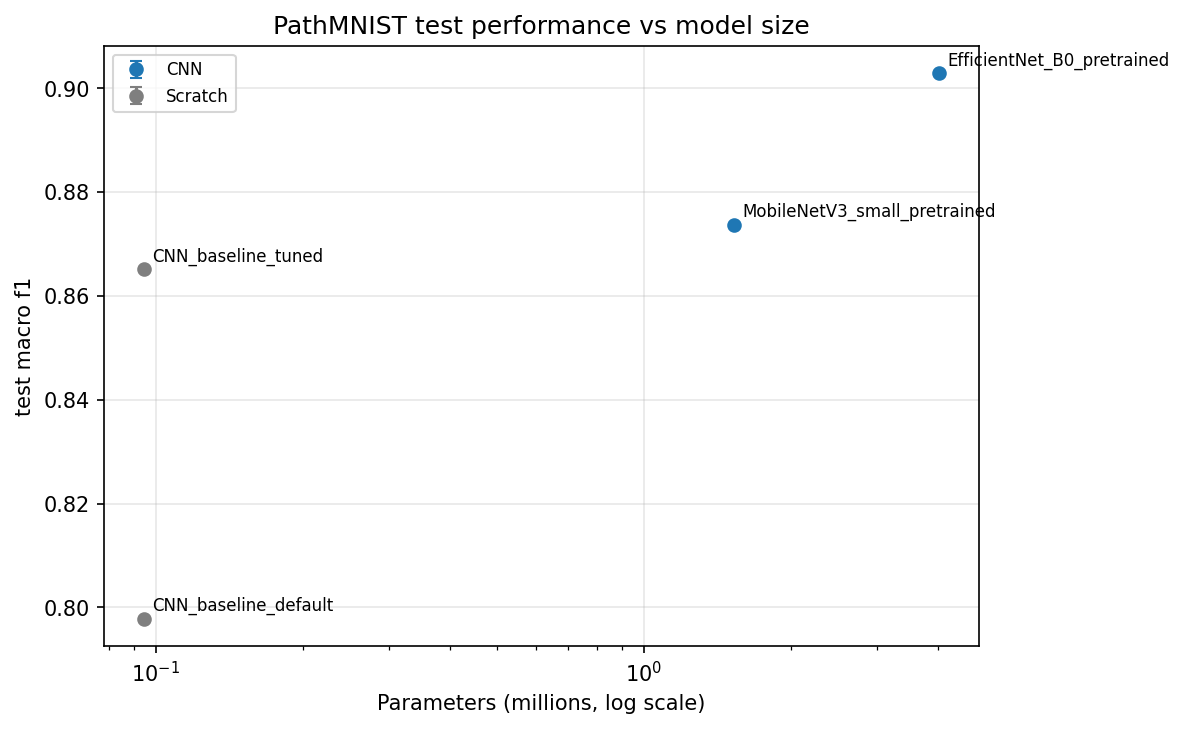
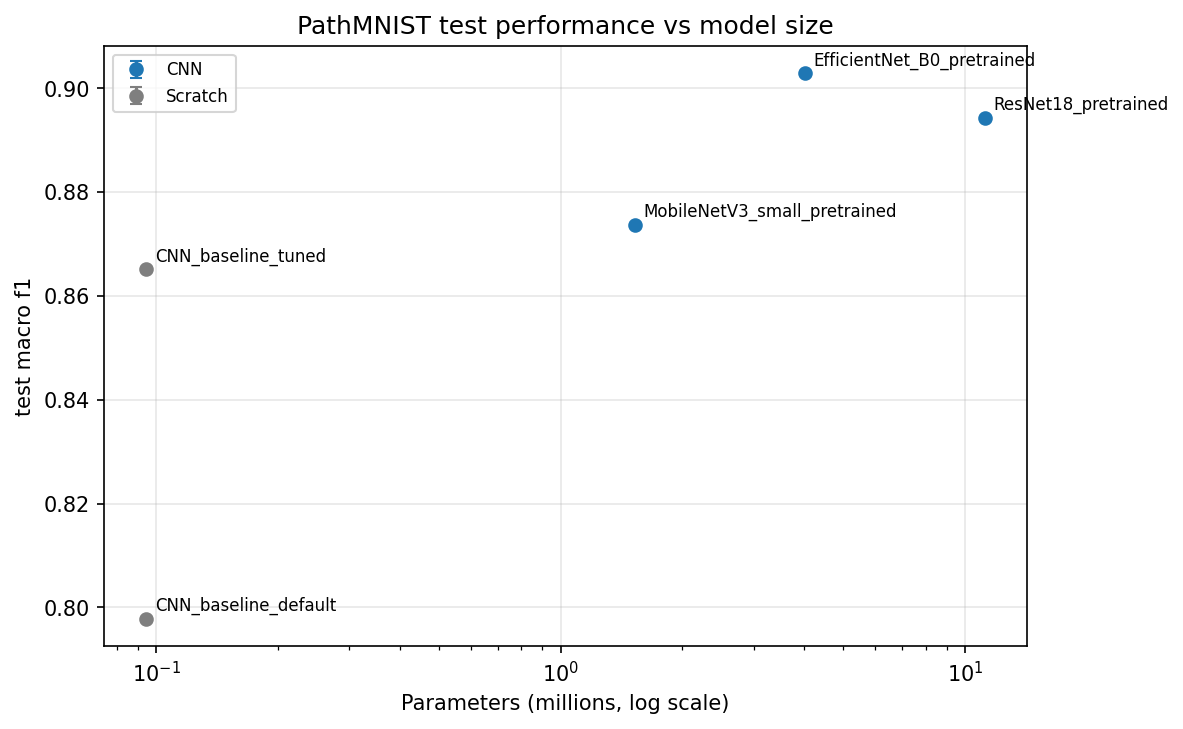
ADD: Add reports for resnet18 after training

diff --git a/reports/PRESENTATION_SUMMARY.md b/reports/PRESENTATION_SUMMARY.md
@@ -1,6 +1,6 @@
 # CRC-TissueNet - results summary (laptop CPU run)
 
-Generated 2026-11-15 08:07 | profile `capstone`. Hyperparameters were selected on the validation split only; the test cohort (7,180 patches from 50 unseen patients) was used once per final model. Studies used parts of the training data (see each study's settings); validation and test sets were always complete.
+Generated 2026-11-15 17:28 | profile `capstone`. Hyperparameters were selected on the validation split only; the test cohort (7,180 patches from 50 unseen patients) was used once per final model. Studies used parts of the training data (see each study's settings); validation and test sets were always complete.
 
 ## 1. Data
 
@@ -58,6 +58,20 @@ Full observations: `runs\capstone_transfer_mobilenetv3_small/OBSERVATIONS.md`
 
 Full observations: `runs\capstone_transfer_efficientnet_b0/OBSERVATIONS.md`
 
+## 3. Transfer learning - l1_resnet18_pt
+
+| stage | selected setting | val macro F1 |
+|---|---|---|
+| finetune_strategy | fine_tuning | 0.7896 |
+| learning_rate | x3 | 0.8811 |
+
+![capstone_transfer_resnet18_progress.png](presentation/capstone_transfer_resnet18_progress.png)
+
+![capstone_transfer_resnet18_stage_finetune_strategy.png](presentation/capstone_transfer_resnet18_stage_finetune_strategy.png)
+![capstone_transfer_resnet18_stage_learning_rate.png](presentation/capstone_transfer_resnet18_stage_learning_rate.png)
+
+Full observations: `runs\capstone_transfer_resnet18/OBSERVATIONS.md`
+
 ## 4. Final models on the unseen test cohort
 
 Seeds per model: mean ± SD over seeds; 95% CI = patch-level bootstrap (1000 resamples) for the first seed. Model selection used validation data only.
@@ -68,6 +82,7 @@ Seeds per model: mean ± SD over seeds; 95% CI = patch-level bootstrap (1000 res
 | CNN_baseline_tuned | Scratch | 0.09 | 28 | 0.9001 | 0.894-0.907 | 0.8651 | 0.9867 | 0.8703 | 0.031 | 0.950 | 153.8 | 4.440 |
 | MobileNetV3_small_pretrained | CNN | 1.53 | 64 | 0.9043 | 0.898-0.911 | 0.8738 | 0.9851 | 0.8736 | 0.063 | 0.951 | 12.4 | 0.624 |
 | EfficientNet_B0_pretrained | CNN | 4.02 | 64 | 0.9292 | 0.923-0.936 | 0.9029 | 0.9914 | 0.9018 | 0.077 | 0.974 | 49.3 | 2.649 |
+| ResNet18_pretrained | CNN | 11.18 | 64 | 0.9242 | 0.918-0.931 | 0.8944 | 0.9901 | 0.8951 | 0.095 | 0.964 | 46.6 | 4.065 |
 
 Published MedMNIST v2 PathMNIST results (Yang et al. 2023): ResNet-18 (28): acc 0.907, AUC 0.983; ResNet-18 (224): acc 0.909, AUC 0.989; ResNet-50 (28): acc 0.911, AUC 0.99; ResNet-50 (224): acc 0.892, AUC 0.989
 
@@ -85,6 +100,7 @@ Published MedMNIST v2 PathMNIST results (Yang et al. 2023): ResNet-18 (28): acc 
 | CNN_baseline_tuned           | 0.942 |  0.96  | 0.708 | 0.964 | 0.901 | 0.839 |  0.923 | 0.616 | 0.934 |
 | MobileNetV3_small_pretrained | 0.965 |  0.948 | 0.821 | 0.963 | 0.938 | 0.814 |  0.881 | 0.624 | 0.91  |
 | EfficientNet_B0_pretrained   | 0.968 |  0.985 | 0.808 | 0.971 | 0.958 | 0.847 |  0.924 | 0.721 | 0.943 |
+| ResNet18_pretrained          | 0.978 |  0.983 | 0.831 | 0.967 | 0.957 | 0.845 |  0.913 | 0.645 | 0.929 |
 
 ## Paired comparisons vs CNN_baseline_tuned (same seed, test set)
 
@@ -92,9 +108,10 @@ Paired bootstrap of the macro-F1 difference and McNemar's test; p-values Holm-ad
 
 | id                           | vs                 |   seed |   delta_macro_f1 | delta_ci95         |   p_bootstrap |   p_mcnemar |   only_model_correct |   only_reference_correct |   p_bootstrap_holm |   p_mcnemar_holm | significant_0.05   |
 |:-----------------------------|:-------------------|-------:|-----------------:|:-------------------|--------------:|------------:|---------------------:|-------------------------:|-------------------:|-----------------:|:-------------------|
-| CNN_baseline_default         | CNN_baseline_tuned |     42 |          -0.0673 | -0.0761 to -0.0578 |         0.001 |      0      |                  194 |                      487 |              0.003 |           0      | True               |
+| CNN_baseline_default         | CNN_baseline_tuned |     42 |          -0.0673 | -0.0761 to -0.0578 |         0.001 |      0      |                  194 |                      487 |              0.004 |           0      | True               |
 | MobileNetV3_small_pretrained | CNN_baseline_tuned |     42 |           0.0086 | -0.0003 to +0.0180 |         0.068 |      0.2434 |                  324 |                      294 |              0.068 |           0.2434 | False              |
-| EfficientNet_B0_pretrained   | CNN_baseline_tuned |     42 |           0.0377 | +0.0291 to +0.0471 |         0.001 |      0      |                  410 |                      201 |              0.003 |           0      | True               |
+| EfficientNet_B0_pretrained   | CNN_baseline_tuned |     42 |           0.0377 | +0.0291 to +0.0471 |         0.001 |      0      |                  410 |                      201 |              0.004 |           0      | True               |
+| ResNet18_pretrained          | CNN_baseline_tuned |     42 |           0.0292 | +0.0204 to +0.0384 |         0.001 |      0      |                  378 |                      205 |              0.004 |           0      | True               |
 
 
 

diff --git a/reports/capstone_benchmark/REPORT.md b/reports/capstone_benchmark/REPORT.md
@@ -8,6 +8,7 @@ Seeds per model: mean ± SD over seeds; 95% CI = patch-level bootstrap (1000 res
 | CNN_baseline_tuned | Scratch | 0.09 | 28 | 0.9001 | 0.894-0.907 | 0.8651 | 0.9867 | 0.8703 | 0.031 | 0.950 | 153.8 | 4.440 |
 | MobileNetV3_small_pretrained | CNN | 1.53 | 64 | 0.9043 | 0.898-0.911 | 0.8738 | 0.9851 | 0.8736 | 0.063 | 0.951 | 12.4 | 0.624 |
 | EfficientNet_B0_pretrained | CNN | 4.02 | 64 | 0.9292 | 0.923-0.936 | 0.9029 | 0.9914 | 0.9018 | 0.077 | 0.974 | 49.3 | 2.649 |
+| ResNet18_pretrained | CNN | 11.18 | 64 | 0.9242 | 0.918-0.931 | 0.8944 | 0.9901 | 0.8951 | 0.095 | 0.964 | 46.6 | 4.065 |
 
 Published MedMNIST v2 PathMNIST results (Yang et al. 2023): ResNet-18 (28): acc 0.907, AUC 0.983; ResNet-18 (224): acc 0.909, AUC 0.989; ResNet-50 (28): acc 0.911, AUC 0.99; ResNet-50 (224): acc 0.892, AUC 0.989
 
@@ -25,6 +26,7 @@ Published MedMNIST v2 PathMNIST results (Yang et al. 2023): ResNet-18 (28): acc 
 | CNN_baseline_tuned           | 0.942 |  0.96  | 0.708 | 0.964 | 0.901 | 0.839 |  0.923 | 0.616 | 0.934 |
 | MobileNetV3_small_pretrained | 0.965 |  0.948 | 0.821 | 0.963 | 0.938 | 0.814 |  0.881 | 0.624 | 0.91  |
 | EfficientNet_B0_pretrained   | 0.968 |  0.985 | 0.808 | 0.971 | 0.958 | 0.847 |  0.924 | 0.721 | 0.943 |
+| ResNet18_pretrained          | 0.978 |  0.983 | 0.831 | 0.967 | 0.957 | 0.845 |  0.913 | 0.645 | 0.929 |
 
 ## Paired comparisons vs CNN_baseline_tuned (same seed, test set)
 
@@ -32,6 +34,7 @@ Paired bootstrap of the macro-F1 difference and McNemar's test; p-values Holm-ad
 
 | id                           | vs                 |   seed |   delta_macro_f1 | delta_ci95         |   p_bootstrap |   p_mcnemar |   only_model_correct |   only_reference_correct |   p_bootstrap_holm |   p_mcnemar_holm | significant_0.05   |
 |:-----------------------------|:-------------------|-------:|-----------------:|:-------------------|--------------:|------------:|---------------------:|-------------------------:|-------------------:|-----------------:|:-------------------|
-| CNN_baseline_default         | CNN_baseline_tuned |     42 |          -0.0673 | -0.0761 to -0.0578 |         0.001 |      0      |                  194 |                      487 |              0.003 |           0      | True               |
+| CNN_baseline_default         | CNN_baseline_tuned |     42 |          -0.0673 | -0.0761 to -0.0578 |         0.001 |      0      |                  194 |                      487 |              0.004 |           0      | True               |
 | MobileNetV3_small_pretrained | CNN_baseline_tuned |     42 |           0.0086 | -0.0003 to +0.0180 |         0.068 |      0.2434 |                  324 |                      294 |              0.068 |           0.2434 | False              |
-| EfficientNet_B0_pretrained   | CNN_baseline_tuned |     42 |           0.0377 | +0.0291 to +0.0471 |         0.001 |      0      |                  410 |                      201 |              0.003 |           0      | True               |
+| EfficientNet_B0_pretrained   | CNN_baseline_tuned |     42 |           0.0377 | +0.0291 to +0.0471 |         0.001 |      0      |                  410 |                      201 |              0.004 |           0      | True               |
+| ResNet18_pretrained          | CNN_baseline_tuned |     42 |           0.0292 | +0.0204 to +0.0384 |         0.001 |      0      |                  378 |                      205 |              0.004 |           0      | True               |
